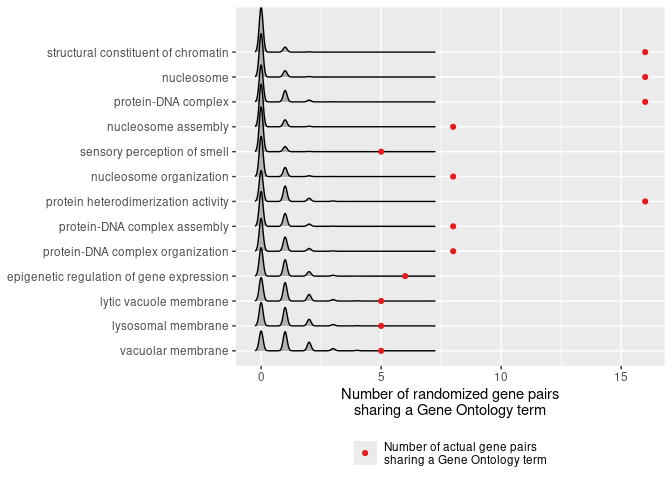
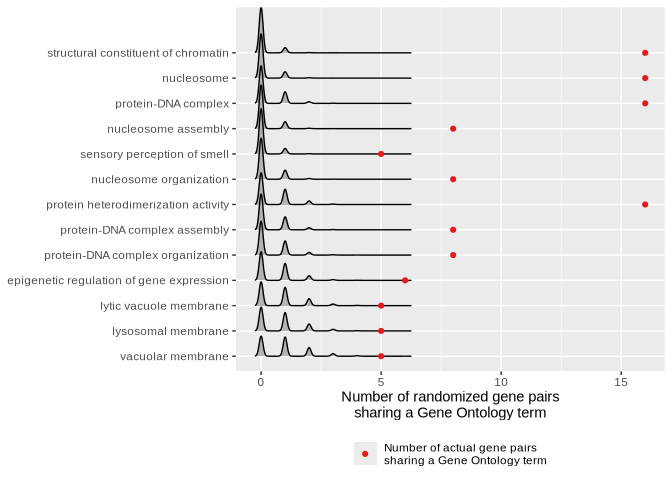
Minor changes

diff --git a/README.md b/README.md
@@ -100,12 +100,12 @@ head(goago@result)
 #> 5                                                      protein-DNA complex assembly
 #> 6 antigen processing and presentation of exogenous peptide antigen via MHC class II
 #>   Count       Ratio      BgRatio pvalue p.adjust qvalue
-#> 1     8 0.010322581 2.807742e-04      0        0      0
-#> 2     8 0.010322581 2.061935e-04      0        0      0
-#> 3     6 0.007741935 7.201290e-04      0        0      0
-#> 4     8 0.010322581 5.343226e-04      0        0      0
-#> 5     8 0.010322581 4.640000e-04      0        0      0
-#> 6     2 0.002580645 1.987097e-05      0        0      0
+#> 1     8 0.010322581 0.0002703226      0        0      0
+#> 2     8 0.010322581 0.0001983226      0        0      0
+#> 3     6 0.007741935 0.0007245161      0        0      0
+#> 4     8 0.010322581 0.0005188387      0        0      0
+#> 5     8 0.010322581 0.0004468387      0        0      0
+#> 6     2 0.002580645 0.0000196129      0        0      0
 ```
 
 Note that some of the *p*-values have the value of zero, which means
@@ -134,7 +134,7 @@ distributions, empirical *p*-values were calculated:
 
 ``` r
 RidgePlot(goago)
-#> Picking joint bandwidth of 0.08
+#> Picking joint bandwidth of 0.0797
 ```
 
 <img src="man/figures/README-ridgeplot-1.png" width="100%" />
